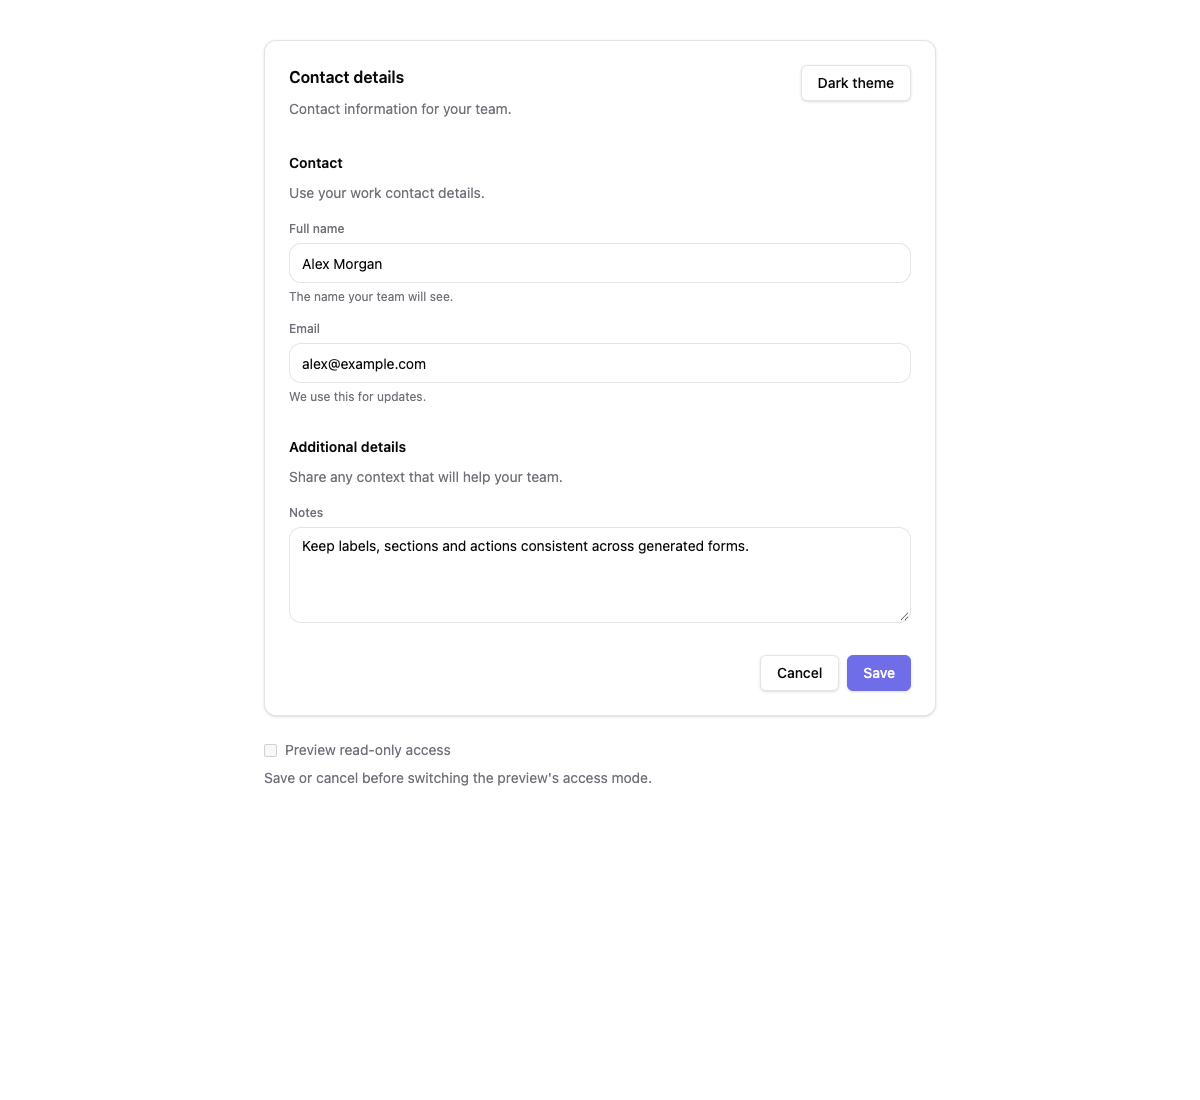
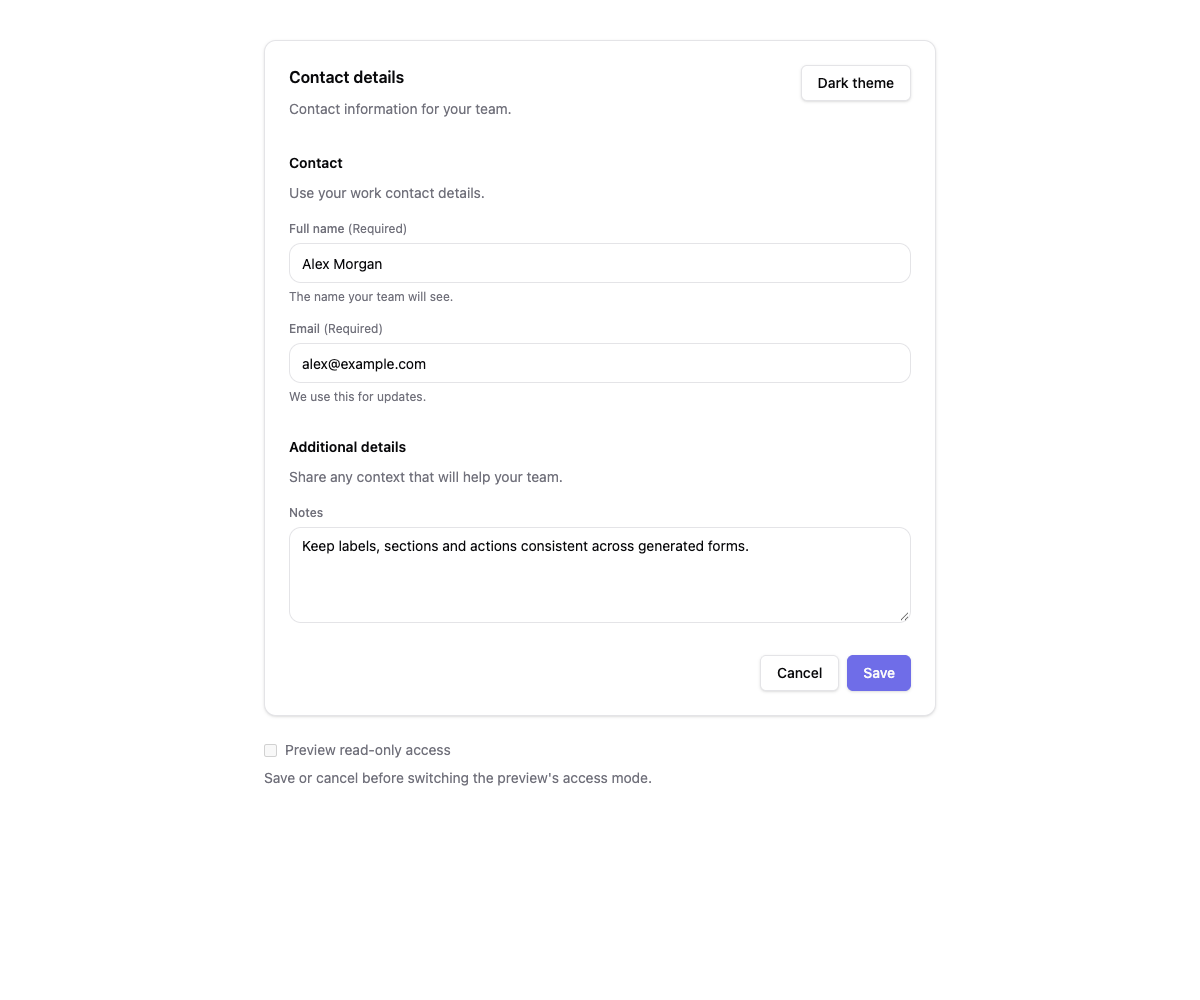
Preserve form focus and show quiet requirement markers

diff --git a/packages/web-primitives/src/field.tsx b/packages/web-primitives/src/field.tsx
@@ -30,6 +30,8 @@ export function Field({
   const id = useId();
   const child = isValidElement<{
     id?: string;
+    required?: boolean;
+    "aria-required"?: boolean | "true" | "false";
     "aria-describedby"?: string;
     "aria-invalid"?: boolean | "true" | "false";
   }>(children)
@@ -41,6 +43,21 @@ export function Field({
       child.type === Input ||
       child.type === Textarea);
   const controlId = htmlFor ?? child?.props.id ?? `${id}-control`;
+  const required =
+    child?.props.required ||
+    child?.props["aria-required"] === true ||
+    child?.props["aria-required"] === "true";
+  const labelContent = (
+    <>
+      {label}
+      {required && (
+        <span aria-hidden="true" className="font-normal">
+          {" "}
+          (Required)
+        </span>
+      )}
+    </>
+  );
   const labelClass = "text-xs font-medium text-muted-foreground";
   const descriptions =
     [child?.props["aria-describedby"], hint && `${id}-hint`, error && `${id}-error`]
@@ -62,7 +79,7 @@ export function Field({
             <div className="flex items-center justify-between gap-3">
               {label ? (
                 <label htmlFor={controlId} className={labelClass}>
-                  {label}
+                  {labelContent}
                 </label>
               ) : (
                 <span />
@@ -76,7 +93,7 @@ export function Field({
         <>
           {action && <div className="flex justify-end">{action}</div>}
           <label className="grid gap-1.5">
-            {label && <span className={labelClass}>{label}</span>}
+            {label && <span className={labelClass}>{labelContent}</span>}
             {control}
           </label>
         </>

diff --git a/examples/form-ux/main.tsx b/examples/form-ux/main.tsx
@@ -1,4 +1,4 @@
-import { useState } from "react";
+import { useEffect, useRef, useState } from "react";
 import { createRoot } from "react-dom/client";
 import {
   Button,
@@ -28,6 +28,14 @@ function Demo() {
   const [draft, setDraft] = useState(initial);
   const [message, setMessage] = useState("");
   const edit = editing && canEdit;
+  const nameInput = useRef<HTMLInputElement>(null);
+  const editButton = useRef<HTMLButtonElement>(null);
+  const wasEditing = useRef(false);
+  useEffect(() => {
+    if (edit) nameInput.current?.focus();
+    else if (wasEditing.current) editButton.current?.focus();
+    wasEditing.current = edit;
+  }, [edit]);
   return (
     <main
       className={`${dark ? "dark" : ""} min-h-screen bg-background p-6 text-foreground sm:p-10`}
@@ -59,6 +67,7 @@ function Demo() {
                     </Button>
                     {canEdit && !edit && (
                       <Button
+                        ref={editButton}
                         type="button"
                         onClick={() => {
                           setDraft(saved);
@@ -76,6 +85,7 @@ function Demo() {
                 {edit ? (
                   <Field label="Full name" hint="The name your team will see.">
                     <Input
+                      ref={nameInput}
                       name="name"
                       required
                       value={draft.name}

diff --git a/packages/web-ui/src/__tests__/form-field-accessibility.test.tsx b/packages/web-ui/src/__tests__/form-field-accessibility.test.tsx
@@ -23,6 +23,23 @@ it("associates help and errors while keeping field actions outside the control l
 });
 
 describe("existing Field forms", () => {
+  it("shows a quiet requirement from the native control without adding it to the accessible name", () => {
+    const html = renderToStaticMarkup(
+      <Field label="Email">
+        <Input required />
+      </Field>,
+    );
+    expect(html).toContain("(Required)");
+    expect(html).toContain('aria-hidden="true"');
+    expect(html).toContain('required=""');
+    expect(
+      renderToStaticMarkup(
+        <Field label="Notes">
+          <Input />
+        </Field>,
+      ),
+    ).not.toContain("(Required)");
+  });
   it("retains an explicit target and existing descriptions", () => {
     const html = renderToStaticMarkup(
       <Field label="Name" htmlFor="person" hint="Team name">

diff --git a/docs/FORM_UX_VERIFICATION.md b/docs/FORM_UX_VERIFICATION.md
@@ -7,11 +7,13 @@ access, with the same field slots and theme in each state.
 Three field slots retained their x/y/width/height at 1200px in light mode and
 390px in dark mode. The multiline editor displayed its full content. Keyboard
 focus, required/help/error associations and zero/false display values have
-component regression coverage. Read-only access in the example is a simulation;
+component regression coverage. The browser also confirmed Edit focuses the first
+control and Save/Cancel restore focus to Edit; both required controls show a
+quiet requirement marker. Read-only access in the example is a simulation;
 the consuming application must enforce actual permissions.
 
 `pnpm test` passed: build, guidance drift, sensitive-term scan, format, typecheck
-and 1,112 unit tests. `pnpm pack:check` passed for all eight packages.
+and 1,113 unit tests. `pnpm pack:check` passed for all eight packages.
 
 ![Themed reading form](assets/form-ux/view.png)
 

diff --git a/docs/FORM_UX.md b/docs/FORM_UX.md
@@ -171,6 +171,8 @@ and lets you exercise Edit, Cancel/Save and simulated read-only access.
 
 Use quiet inline “(Required)” text in mixed Create/Edit forms; no pill or badge
 frame. Do not show input requirements in View or permanently read-only records.
+`Field` derives the visible marker from its single control's `required` or
+`aria-required` state; use `ReadOnlyField` for reading states.
 Keep `required`/`aria-required` on the actual control and actionable validation.
 A star requires an explanation at the form start; when almost all fields are
 mandatory, marking the exceptions “(optional)” is a valid explicit product choice.

diff --git a/plugins/foundry-ui/skills/foundry-author-chat-module/references/form-ux.md b/plugins/foundry-ui/skills/foundry-author-chat-module/references/form-ux.md
@@ -173,6 +173,8 @@ and lets you exercise Edit, Cancel/Save and simulated read-only access.
 
 Use quiet inline “(Required)” text in mixed Create/Edit forms; no pill or badge
 frame. Do not show input requirements in View or permanently read-only records.
+`Field` derives the visible marker from its single control's `required` or
+`aria-required` state; use `ReadOnlyField` for reading states.
 Keep `required`/`aria-required` on the actual control and actionable validation.
 A star requires an explanation at the form start; when almost all fields are
 mandatory, marking the exceptions “(optional)” is a valid explicit product choice.

diff --git a/plugins/foundry-ui/skills/foundry-verify-agent-apis/references/form-ux.md b/plugins/foundry-ui/skills/foundry-verify-agent-apis/references/form-ux.md
@@ -173,6 +173,8 @@ and lets you exercise Edit, Cancel/Save and simulated read-only access.
 
 Use quiet inline “(Required)” text in mixed Create/Edit forms; no pill or badge
 frame. Do not show input requirements in View or permanently read-only records.
+`Field` derives the visible marker from its single control's `required` or
+`aria-required` state; use `ReadOnlyField` for reading states.
 Keep `required`/`aria-required` on the actual control and actionable validation.
 A star requires an explanation at the form start; when almost all fields are
 mandatory, marking the exceptions “(optional)” is a valid explicit product choice.
